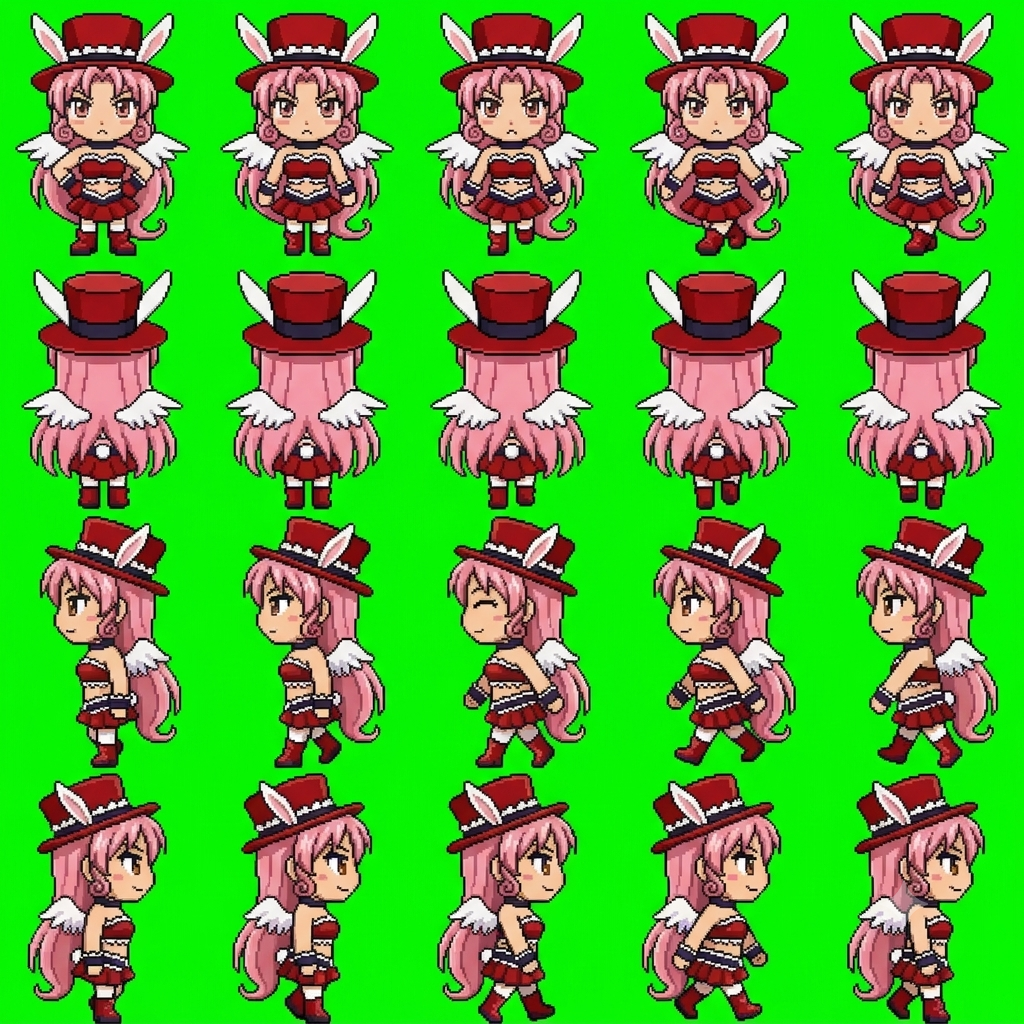
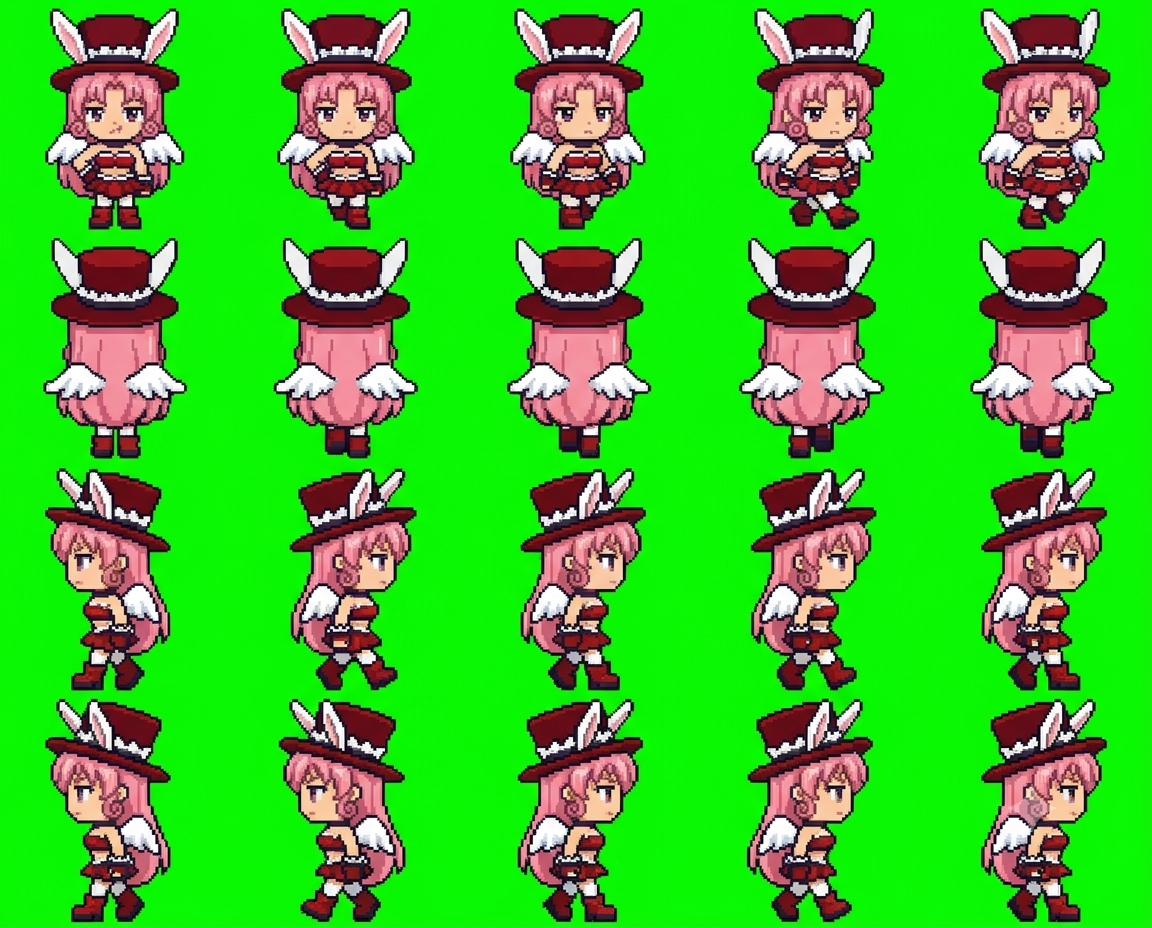
Redraw Meroko to match Izumi's art style
Claude-Session: https://claude.ai/code/session_01KaPsBYLrtbRfMYNG2xeBCK

diff --git a/docs/app.js b/docs/app.js
@@ -75,7 +75,7 @@ function spr(cat, k, col, sc) {
   return `<div class="clip" style="width:${it[2] * sc}px;height:${it[3] * sc}px;POS"><img class="px" src="assets/decor/${cat}.png" alt="" style="width:${S.sw * sc}px;height:${S.sh * sc}px;margin-left:${-col * S.cw * sc}px;margin-top:${-i * S.ch * sc}px"></div>`;
 }
 const icon = (k, sz) => `<span class="itm" style="width:${sz}px;height:${sz}px"><img class="px" src="assets/ui/items.png" alt="" style="width:${IT.length * sz}px;height:${sz}px;margin-left:${-ITM[k].i * sz}px"></span>`;
-const face = (id, w) => { const s = w / 96; return `<img class="px" src="assets/ch/${id}.webp?v=21" alt="" style="position:absolute;width:${384 * s}px;height:${528 * s}px;left:${-(96 * s - w) / 2}px;top:0;max-width:none">`; };
+const face = (id, w) => { const s = w / 96; return `<img class="px" src="assets/ch/${id}.webp?v=22" alt="" style="position:absolute;width:${384 * s}px;height:${528 * s}px;left:${-(96 * s - w) / 2}px;top:0;max-width:none">`; };
 
 // ---------- 저장 ----------
 let fb = null, user = null, S = null, saveT = null;
@@ -143,7 +143,7 @@ function sleepHTML(id, r, dy) {
   const pos = r.a && r.a[0] === 'bed' ? 'left:3%;bottom:20%' : r.b && r.b[0] === 'bed' ? 'right:3%;bottom:20%' : 'left:calc(50% - 44px);bottom:6%';
   const s = 36 / 96;
   return `<div style="position:absolute;width:88px;height:56px;${pos};z-index:${dy ? 4 : 5};${dy ? `transform:translate(12px,${dy}px)` : ''}"><div style="position:absolute;inset:0;filter:brightness(.22)">
-    <div style="position:absolute;left:11px;top:1px;width:36px;height:50px;overflow:hidden;transform:rotate(-90deg)"><img class="px" src="assets/ch/${id}.webp?v=21" alt="" style="width:${384 * s}px;height:${528 * s}px;max-width:none;margin-top:${-132 * s}px"></div>
+    <div style="position:absolute;left:11px;top:1px;width:36px;height:50px;overflow:hidden;transform:rotate(-90deg)"><img class="px" src="assets/ch/${id}.webp?v=22" alt="" style="width:${384 * s}px;height:${528 * s}px;max-width:none;margin-top:${-132 * s}px"></div>
     <div style="position:absolute;left:19px;top:19px;width:67px;height:29px;border:2px solid var(--ink);border-radius:8px 6px 4px 4px;background:#8ccff5;background-image:repeating-linear-gradient(90deg,transparent 0 10px,rgba(255,255,255,.5) 10px 13px)"></div></div>
     ${dy ? '' : '<span class="emo" style="left:8px;top:-22px;color:#5b6bd6">Z z z</span>'}</div>`;
 }
@@ -153,8 +153,8 @@ function roomHTML(id, o, scale) {
     <div class="floor" style="background-color:${PAL[r.fc][1]};background-image:${tileUrl('floor', r.fl)}"></div>
     ${slot('deco', r.dc, 'left:6%;top:6%')}${slot('furn', r.a, 'left:3%;bottom:20%')}${slot('furn', r.b, 'right:3%;bottom:20%')}${slot('prop', r.pr, 'left:28%;bottom:4%;z-index:2')}
     ${id && o.sleeping && g ? sleepHTML(g, r, -16) : ''}${id && o.sleeping ? sleepHTML(id, r) : ''}${id && o.job ? `<div style="position:absolute;left:50%;top:38%;transform:translateX(-50%);z-index:5;background:#fff;border:3px solid var(--ink);border-radius:10px;padding:6px 10px;font-size:11px;text-align:center;line-height:1.5"><img src="assets/ui/ic_job.png" alt="" style="width:18px;vertical-align:-4px"> ${WORK[id] ? WORK[id][1] : esc(JOB_NAME[id]) + ' 알바 중'}${g ? `<br><small>${esc(nameOf(g))}도 같이</small>` : ''}<br><b id="jobleft">${timeLeft(o.job.until)}</b></div>` : ''}
-    ${id ? `<div class="shadow" id="shd" ${o.sleeping || o.job ? 'style="display:none"' : ''}></div><div class="man" id="man" ${o.sleeping || o.job ? 'style="display:none"' : ''}><img class="px" src="assets/ch/${id}.webp?v=21" alt="${esc(nameOf(id))}"></div><span class="emo" id="emo" hidden></span><span class="mumble" id="mum" hidden></span>` : ''}
-    ${g ? `<div class="shadow" id="gshd" ${hideG}></div><div class="man" id="gman" ${hideG}><img class="px" src="assets/ch/${g}.webp?v=21" alt="${esc(nameOf(g))}"></div><span class="emo" id="gemo" hidden></span><span class="mumble gmum" id="gmum" hidden></span>` : ''}
+    ${id ? `<div class="shadow" id="shd" ${o.sleeping || o.job ? 'style="display:none"' : ''}></div><div class="man" id="man" ${o.sleeping || o.job ? 'style="display:none"' : ''}><img class="px" src="assets/ch/${id}.webp?v=22" alt="${esc(nameOf(id))}"></div><span class="emo" id="emo" hidden></span><span class="mumble" id="mum" hidden></span>` : ''}
+    ${g ? `<div class="shadow" id="gshd" ${hideG}></div><div class="man" id="gman" ${hideG}><img class="px" src="assets/ch/${g}.webp?v=22" alt="${esc(nameOf(g))}"></div><span class="emo" id="gemo" hidden></span><span class="mumble gmum" id="gmum" hidden></span>` : ''}
     ${o.sleeping ? `<div class="night"></div><div class="sleepleft">쿨쿨 · 일어나기까지 <b id="sleepleft">${timeLeft(wakeAt(o)).replace(' 남음', '')}</b></div>` : ''}
   </div>`;
 }
@@ -167,7 +167,7 @@ function meterHTML(o) {
 const ic = (act, img, label, pressed) => `<button class="ic" data-act="${act}" ${pressed ? 'aria-pressed="true"' : ''}><img src="assets/ui/ic_${img}.png?v=2" alt="">${label}</button>`;
 
 let dropStyle = null; const cheat = {};
-const APP_V = 93, COUPONS = { NINOGUYA: 3000 };
+const APP_V = 94, COUPONS = { NINOGUYA: 3000 };
 // 쿠폰 입력 정리: 한글 자판 상태로 친 글자(ㅜㅑㅜㅐ혀ㅛㅁ)도 영어 자판 글자로 바꾸고, 대소문자·띄어쓰기·마침표는 무시해요
 const KEY = { ㄱ: 'r', ㄲ: 'R', ㄴ: 's', ㄷ: 'e', ㄸ: 'E', ㄹ: 'f', ㅁ: 'a', ㅂ: 'q', ㅃ: 'Q', ㅅ: 't', ㅆ: 'T', ㅇ: 'd', ㅈ: 'w', ㅉ: 'W', ㅊ: 'c', ㅋ: 'z', ㅌ: 'x', ㅍ: 'v', ㅎ: 'g',
   ㅏ: 'k', ㅐ: 'o', ㅑ: 'i', ㅒ: 'O', ㅓ: 'j', ㅔ: 'p', ㅕ: 'u', ㅖ: 'P', ㅗ: 'h', ㅘ: 'hk', ㅙ: 'ho', ㅚ: 'hl', ㅛ: 'y', ㅜ: 'n', ㅝ: 'nj', ㅞ: 'np', ㅟ: 'nl', ㅠ: 'b', ㅡ: 'm', ㅢ: 'ml', ㅣ: 'l',
@@ -407,7 +407,7 @@ function startTrip(k) {
   if (tg) lines[1] = `${nameOf(tg)}: ${withHim(sub(pick(GLX(tg).trip), o, c.n), tg)}`;
   const n = (FR[id] || [4, 4, 4, 4])[3], el = document.createElement('div'); el.className = 'tripview';
   el.innerHTML = `<div class="tsay"> </div><div class="tstage" style="background-image:url(assets/travel/${k}.png?v=2)"><div class="tplace">${esc(c.n)}</div>
-    <div class="twalker"><img class="px" src="assets/ch/${id}.webp?v=21" alt=""></div>${tg ? `<div class="twalker tgirl"><img class="px" src="assets/ch/${tg}.webp?v=21" alt=""></div>` : ''}<span class="emo tjoy">♪</span></div>
+    <div class="twalker"><img class="px" src="assets/ch/${id}.webp?v=22" alt=""></div>${tg ? `<div class="twalker tgirl"><img class="px" src="assets/ch/${tg}.webp?v=22" alt=""></div>` : ''}<span class="emo tjoy">♪</span></div>
     <div class="tbar"><i></i></div><button class="btn white tskip" data-tskip="1">바로 돌아오기</button>`;
   document.body.appendChild(el);
   const gimg = el.querySelector('.tgirl img'), gn = tg ? (FR[tg] || [4, 4, 4, 4])[3] : 1;
@@ -636,7 +636,7 @@ setInterval(() => { if (S && user) { tickTime(); save(); } }, 60000);
     if (nv > APP_V && !location.search.includes('u=' + nv)) { location.replace(location.pathname + '?u=' + nv); return; }
   } catch { }
   app.innerHTML = '<div class="start"><div class="egg"><div class="scr"></div></div><div class="note">불러오는 중....</div></div>';
-  const [c, t, f, it, mu, ct, tv, gl, sts] = await Promise.all(['data/chars.json', 'data/talk.json', 'data/frames.json', 'data/items.json', 'data/mumble.json', 'data/countries.json', 'data/travel.json', 'data/girls.json', 'data/sets.json'].map(u => fetch(u + '?v=93').then(r => r.ok ? r.json() : {})));
+  const [c, t, f, it, mu, ct, tv, gl, sts] = await Promise.all(['data/chars.json', 'data/talk.json', 'data/frames.json', 'data/items.json', 'data/mumble.json', 'data/countries.json', 'data/travel.json', 'data/girls.json', 'data/sets.json'].map(u => fetch(u + '?v=94').then(r => r.ok ? r.json() : {})));
   CH = c; CHM = Object.fromEntries(c.map(x => [x.id, x])); TALK = t; FR = f; IT = it; ITM = Object.fromEntries(it.map(x => [x.k, x])); MUM = mu; CTRY = ct; TRV = tv; GL = Array.isArray(gl) ? gl : []; SETS = Array.isArray(sts) ? sts : []; GLM = Object.fromEntries(GL.map(x => [x.id, x]));
   try { await initFirebase(); } catch (e) { console.warn('Firebase 연결 실패, 기기 저장으로', e); fb = null; }
   if (fb) {

diff --git a/docs/index.html b/docs/index.html
@@ -18,6 +18,6 @@
 <main id="app" aria-live="polite"></main>
 <div id="toast" role="status" hidden></div>
 <script src="firebase-config.js?v=3"></script>
-<script type="module" src="app.js?v=93"></script>
+<script type="module" src="app.js?v=94"></script>
 </body>
 </html>
